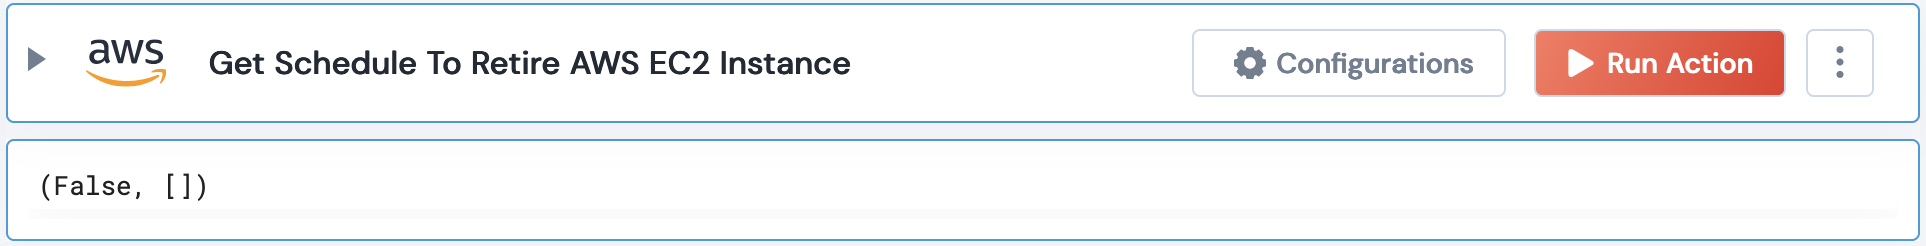
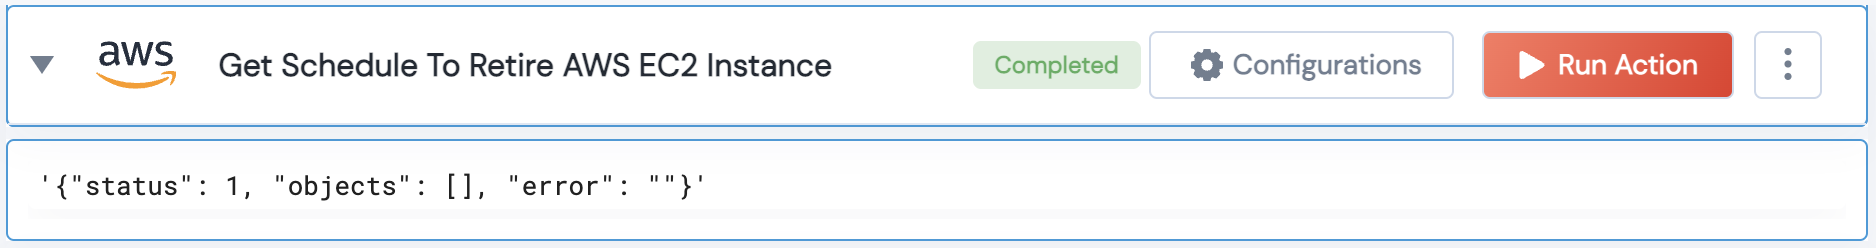
Check Lego: Get Instances Scheduled to Retire

diff --git a/AWS/legos/aws_get_schedule_to_retire_instances/aws_get_schedule_to_retire_instances.py b/AWS/legos/aws_get_schedule_to_retire_instances/aws_get_schedule_to_retire_instances.py
@@ -6,6 +6,7 @@
 from pydantic import BaseModel, Field
 from typing import List, Tuple, Optional
 from unskript.legos.aws.aws_list_all_regions.aws_list_all_regions import aws_list_all_regions
+from unskript.legos.utils import CheckOutput, CheckOutputStatus
 from unskript.legos.aws.aws_filter_all_ec2_instances.aws_filter_all_ec2_instances import aws_filter_ec2_instances
 import pprint
 
@@ -21,15 +22,18 @@ class InputSchema(BaseModel):
 def aws_get_schedule_to_retire_instances_printer(output):
     if output is None:
         return
-    pprint.pprint(output)
+    if isinstance(output, CheckOutput):
+        pprint.pprint(output.json())
+    else:
+        pprint.pprint(output)
 
-def aws_get_schedule_to_retire_instances( handle, region: str=None) ->Tuple:
+def aws_get_schedule_to_retire_instances( handle, region: str=None) ->CheckOutput:
     """aws_get_schedule_to_retire_instances Returns a tuple of instances scheduled to retire.
 
         :type region: string
         :param region: Used to filter the volume for specific region.
 
-        :rtype: Tuple with the execution result and list of instances scheduled to retire
+        :rtype: Object with status, list of instances scheduled to retire, and errors
     """
     retiring_instances = {} 
     result = [] 
@@ -37,8 +41,8 @@ def aws_get_schedule_to_retire_instances( handle, region: str=None) ->Tuple:
     all_regions = [region] 
     if region is None or not region:
          all_regions = aws_list_all_regions(handle=handle) 
-    try: 
-        for r in all_regions: 
+    for r in all_regions:
+        try: 
             ec2client = handle.client('ec2', region_name=r) 
             output = aws_filter_ec2_instances(handle=handle,region=r)
             if len(output)!=0: 
@@ -47,9 +51,9 @@ def aws_get_schedule_to_retire_instances( handle, region: str=None) ->Tuple:
                     all_instances_dict["region"]=r 
                     all_instances_dict["instance"]=o 
                     all_instances.append(all_instances_dict) 
-    except Exception as error: 
-        pass 
-    for each_instance in all_instances: 
+        except Exception as error:
+            pass
+    for each_instance in all_instances:
         try: 
             ec2client = handle.client('ec2', region_name=each_instance['region'])
             response = ec2client.describe_instance_status(Filters=[{'Name': 'event.code','Values': ['instance-retirement']}],InstanceIds=each_instance['instance']) 
@@ -59,8 +63,11 @@ def aws_get_schedule_to_retire_instances( handle, region: str=None) ->Tuple:
                 result.append(retiring_instances) 
         except Exception as error: 
             pass 
-    execution_flag = False 
-    if len(result) > 0:
-        execution_flag = True 
-    output = (execution_flag, result) 
-    return output
+    if len(result)!=0:
+        return CheckOutput(status=CheckOutputStatus.FAILED,
+                   objects=result,
+                   error=str(""))
+    else:
+        return CheckOutput(status=CheckOutputStatus.SUCCESS,
+                   objects=result,
+                   error=str(""))
